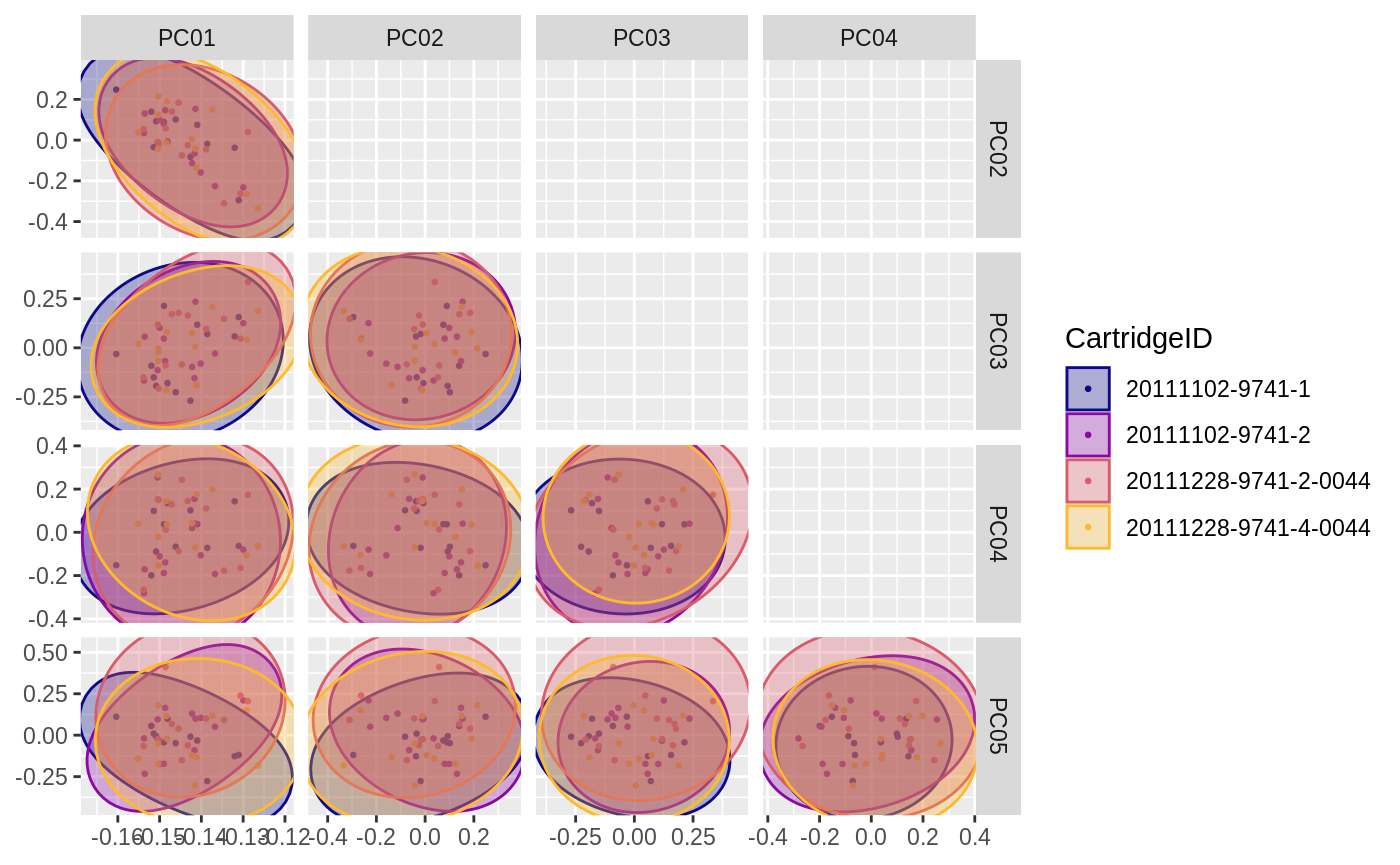
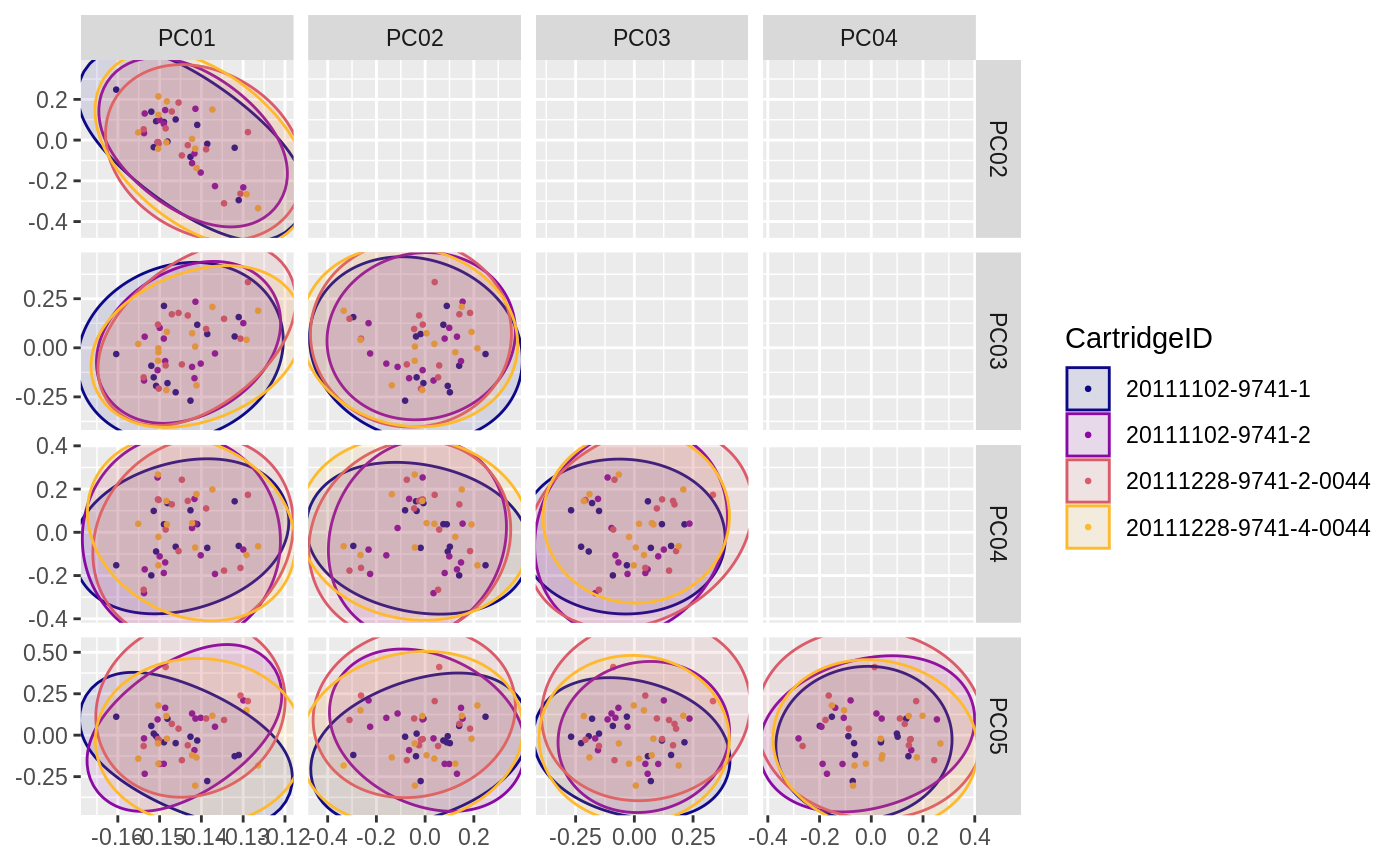
Built site for NACHO: 1.0.0.9000@b40899e

Changed region(s): [[0.0307, 0.0624, 0.7064, 0.9676], [0.7371, 0.4058, 0.7986, 0.6555]]

diff --git a/dev/articles/NACHO-analysis.html b/dev/articles/NACHO-analysis.html
@@ -224,31 +224,31 @@ Canouil M, Bouland GA, Bonnefond A, Froguel P, Hart L, Slieker R (2019). “NACH
 <a class="sourceLine" id="cb4-11" data-line-number="11">## )</a>
 <a class="sourceLine" id="cb4-12" data-line-number="12">## See spec(...) for full column specifications.</a>
 <a class="sourceLine" id="cb4-13" data-line-number="13">## File stored at:</a>
-<a class="sourceLine" id="cb4-14" data-line-number="14">## /tmp/RtmpGJ32qf/GPL20699.soft</a>
+<a class="sourceLine" id="cb4-14" data-line-number="14">## /tmp/RtmpqjWbLT/GPL20699.soft</a>
 <a class="sourceLine" id="cb4-15" data-line-number="15"><span class="co"># Get phenotypes</span></a>
 <a class="sourceLine" id="cb4-16" data-line-number="16">targets &lt;-<span class="st"> </span><span class="kw">pData</span>(<span class="kw">phenoData</span>(gse[[<span class="dv">1</span>]]))</a>
 <a class="sourceLine" id="cb4-17" data-line-number="17"><span class="kw"><a href="https://rdrr.io/pkg/GEOquery/man/getGEOSuppFiles.html">getGEOSuppFiles</a></span>(<span class="dt">GEO =</span> <span class="st">"GSE70970"</span>, <span class="dt">baseDir =</span> <span class="kw"><a href="https://rdrr.io/r/base/tempfile.html">tempdir</a></span>())</a>
 <a class="sourceLine" id="cb4-18" data-line-number="18">##                                                                    size isdir</a>
-<a class="sourceLine" id="cb4-19" data-line-number="19">## /tmp/RtmpGJ32qf/GSE70970/GSE70970_RAW.tar                       1986560 FALSE</a>
-<a class="sourceLine" id="cb4-20" data-line-number="20">## /tmp/RtmpGJ32qf/GSE70970/GSE70970_characteristics_readme.txt.gz     672 FALSE</a>
+<a class="sourceLine" id="cb4-19" data-line-number="19">## /tmp/RtmpqjWbLT/GSE70970/GSE70970_RAW.tar                       1986560 FALSE</a>
+<a class="sourceLine" id="cb4-20" data-line-number="20">## /tmp/RtmpqjWbLT/GSE70970/GSE70970_characteristics_readme.txt.gz     672 FALSE</a>
 <a class="sourceLine" id="cb4-21" data-line-number="21">##                                                                 mode</a>
-<a class="sourceLine" id="cb4-22" data-line-number="22">## /tmp/RtmpGJ32qf/GSE70970/GSE70970_RAW.tar                        664</a>
-<a class="sourceLine" id="cb4-23" data-line-number="23">## /tmp/RtmpGJ32qf/GSE70970/GSE70970_characteristics_readme.txt.gz  664</a>
+<a class="sourceLine" id="cb4-22" data-line-number="22">## /tmp/RtmpqjWbLT/GSE70970/GSE70970_RAW.tar                        664</a>
+<a class="sourceLine" id="cb4-23" data-line-number="23">## /tmp/RtmpqjWbLT/GSE70970/GSE70970_characteristics_readme.txt.gz  664</a>
 <a class="sourceLine" id="cb4-24" data-line-number="24">##                                                                               mtime</a>
-<a class="sourceLine" id="cb4-25" data-line-number="25">## /tmp/RtmpGJ32qf/GSE70970/GSE70970_RAW.tar                       2020-03-19 09:29:55</a>
-<a class="sourceLine" id="cb4-26" data-line-number="26">## /tmp/RtmpGJ32qf/GSE70970/GSE70970_characteristics_readme.txt.gz 2020-03-19 09:29:55</a>
+<a class="sourceLine" id="cb4-25" data-line-number="25">## /tmp/RtmpqjWbLT/GSE70970/GSE70970_RAW.tar                       2020-03-19 09:43:27</a>
+<a class="sourceLine" id="cb4-26" data-line-number="26">## /tmp/RtmpqjWbLT/GSE70970/GSE70970_characteristics_readme.txt.gz 2020-03-19 09:43:27</a>
 <a class="sourceLine" id="cb4-27" data-line-number="27">##                                                                               ctime</a>
-<a class="sourceLine" id="cb4-28" data-line-number="28">## /tmp/RtmpGJ32qf/GSE70970/GSE70970_RAW.tar                       2020-03-19 09:29:55</a>
-<a class="sourceLine" id="cb4-29" data-line-number="29">## /tmp/RtmpGJ32qf/GSE70970/GSE70970_characteristics_readme.txt.gz 2020-03-19 09:29:55</a>
+<a class="sourceLine" id="cb4-28" data-line-number="28">## /tmp/RtmpqjWbLT/GSE70970/GSE70970_RAW.tar                       2020-03-19 09:43:27</a>
+<a class="sourceLine" id="cb4-29" data-line-number="29">## /tmp/RtmpqjWbLT/GSE70970/GSE70970_characteristics_readme.txt.gz 2020-03-19 09:43:27</a>
 <a class="sourceLine" id="cb4-30" data-line-number="30">##                                                                               atime</a>
-<a class="sourceLine" id="cb4-31" data-line-number="31">## /tmp/RtmpGJ32qf/GSE70970/GSE70970_RAW.tar                       2020-03-19 09:29:54</a>
-<a class="sourceLine" id="cb4-32" data-line-number="32">## /tmp/RtmpGJ32qf/GSE70970/GSE70970_characteristics_readme.txt.gz 2020-03-19 09:29:55</a>
+<a class="sourceLine" id="cb4-31" data-line-number="31">## /tmp/RtmpqjWbLT/GSE70970/GSE70970_RAW.tar                       2020-03-19 09:43:26</a>
+<a class="sourceLine" id="cb4-32" data-line-number="32">## /tmp/RtmpqjWbLT/GSE70970/GSE70970_characteristics_readme.txt.gz 2020-03-19 09:43:27</a>
 <a class="sourceLine" id="cb4-33" data-line-number="33">##                                                                  uid  gid</a>
-<a class="sourceLine" id="cb4-34" data-line-number="34">## /tmp/RtmpGJ32qf/GSE70970/GSE70970_RAW.tar                       2000 2000</a>
-<a class="sourceLine" id="cb4-35" data-line-number="35">## /tmp/RtmpGJ32qf/GSE70970/GSE70970_characteristics_readme.txt.gz 2000 2000</a>
+<a class="sourceLine" id="cb4-34" data-line-number="34">## /tmp/RtmpqjWbLT/GSE70970/GSE70970_RAW.tar                       2000 2000</a>
+<a class="sourceLine" id="cb4-35" data-line-number="35">## /tmp/RtmpqjWbLT/GSE70970/GSE70970_characteristics_readme.txt.gz 2000 2000</a>
 <a class="sourceLine" id="cb4-36" data-line-number="36">##                                                                  uname grname</a>
-<a class="sourceLine" id="cb4-37" data-line-number="37">## /tmp/RtmpGJ32qf/GSE70970/GSE70970_RAW.tar                       travis travis</a>
-<a class="sourceLine" id="cb4-38" data-line-number="38">## /tmp/RtmpGJ32qf/GSE70970/GSE70970_characteristics_readme.txt.gz travis travis</a>
+<a class="sourceLine" id="cb4-37" data-line-number="37">## /tmp/RtmpqjWbLT/GSE70970/GSE70970_RAW.tar                       travis travis</a>
+<a class="sourceLine" id="cb4-38" data-line-number="38">## /tmp/RtmpqjWbLT/GSE70970/GSE70970_characteristics_readme.txt.gz travis travis</a>
 <a class="sourceLine" id="cb4-39" data-line-number="39"><span class="co"># Unzip data</span></a>
 <a class="sourceLine" id="cb4-40" data-line-number="40"><span class="kw"><a href="https://rdrr.io/r/utils/untar.html">untar</a></span>(</a>
 <a class="sourceLine" id="cb4-41" data-line-number="41">  <span class="dt">tarfile =</span> <span class="kw"><a href="https://rdrr.io/r/base/file.path.html">file.path</a></span>(<span class="kw"><a href="https://rdrr.io/r/base/tempfile.html">tempdir</a></span>(), <span class="st">"GSE70970"</span>, <span class="st">"GSE70970_RAW.tar"</span>), </a>

diff --git a/dev/articles/NACHO.html b/dev/articles/NACHO.html
@@ -230,7 +230,7 @@ In this example, we use a mRNA dataset from the study of <span class="citation">
 ## #   `local.regional.time:ch1` &lt;chr&gt;, `local.time:ch1` &lt;chr&gt;, `n:ch1` &lt;chr&gt;,
 ## #   `nodal.event:ch1` &lt;chr&gt;, `nodal.time:ch1` &lt;chr&gt;,
 ## #   `survival.event:ch1` &lt;chr&gt;, `survival.time:ch1` &lt;chr&gt;, `t:ch1` &lt;chr&gt;</code></pre>
-<p>After we extracted the dataset to the <code>/tmp/RtmpjkbcPo/GSE70970/Data</code> directory, a <code>Samplesheet.csv</code> containing a column with the exact names of the files for each sample can be written or use as is.</p>
+<p>After we extracted the dataset to the <code>/tmp/Rtmp9J1YEG/GSE70970/Data</code> directory, a <code>Samplesheet.csv</code> containing a column with the exact names of the files for each sample can be written or use as is.</p>
 </div>
 </div>
 <div id="the-load_rcc-function" class="section level2">

diff --git a/dev/news/index.html b/dev/news/index.html
@@ -135,6 +135,8 @@
 <ul>
 <li>Fix deprecated documention for <code>R/load_rcc.R</code> and <code>R/normalise.R</code>.</li>
 <li>Use <code><a href="https://rdrr.io/r/base/file.path.html">file.path()</a></code> in examples and vignette.</li>
+<li>In <code>R/autoplot.R</code>, reduce alpha for ellipses.</li>
+<li>In <code>inst/app/utils.R</code>, set default point size (also for outliers) to <code>1</code>.</li>
 <li>Code optimisation.</li>
 </ul>
 </div>
